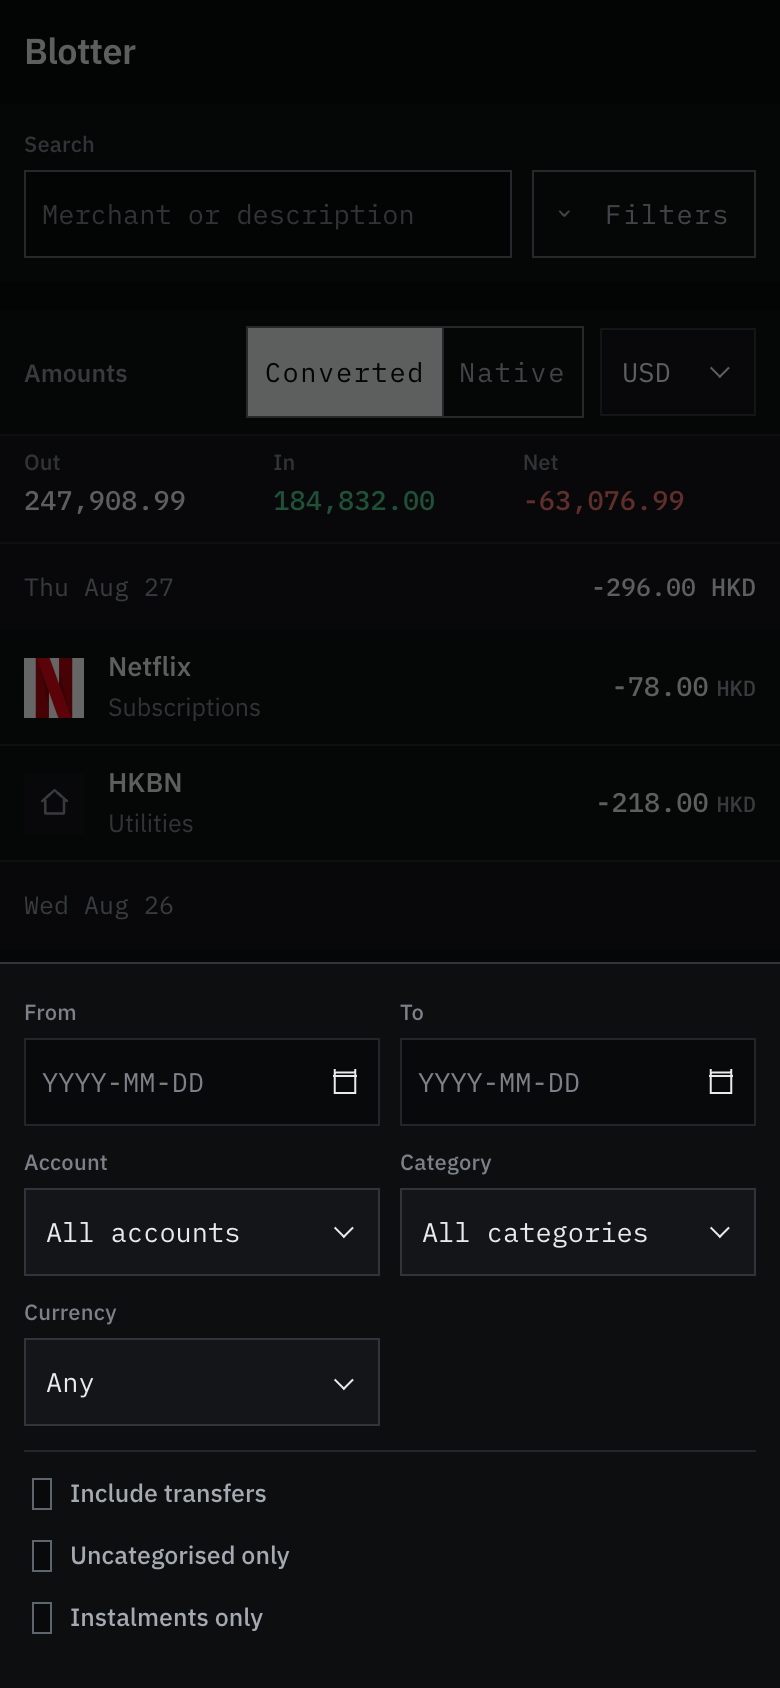
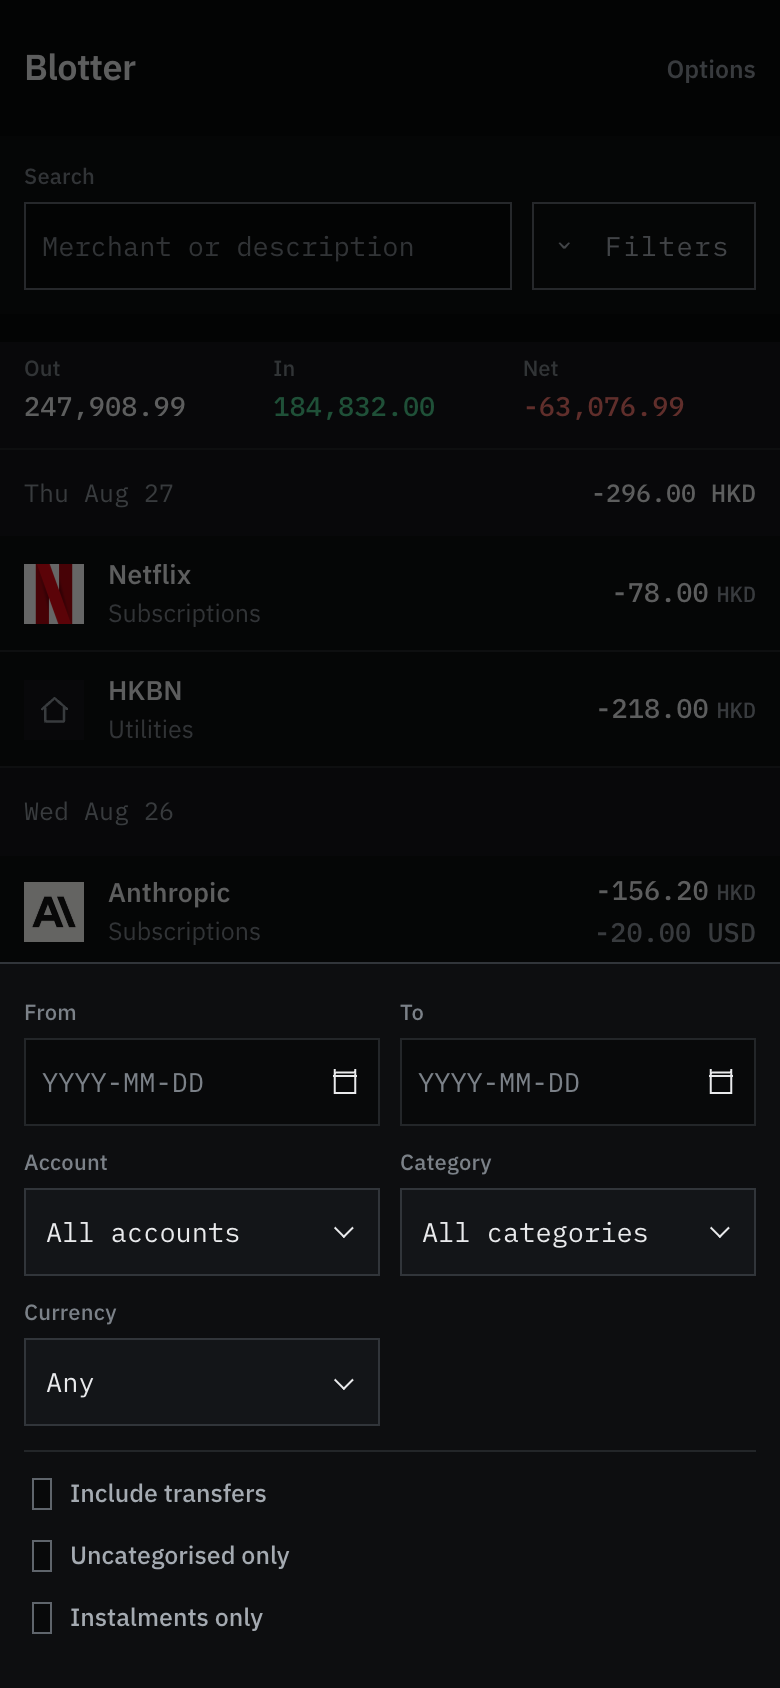
move compact amount controls into options sheet

diff --git a/web/src/styles.css b/web/src/styles.css
@@ -520,6 +520,40 @@ th.num, td.num {
   letter-spacing: 0.08em;
 }
 
+/* Compact presentation preferences use a sheet; the Blotter's data filters
+   remain a separate scoped task. These rules are global because the sheet also
+   contains the shared select component. */
+.amount-options-trigger, .amount-options, .amount-options-scrim { display: none; }
+@media (max-width: 880px) {
+  .amount-options-trigger { display: block; min-height: 44px; padding-inline: var(--s2); color: var(--fg-2); font: 550 var(--t-meta)/1 var(--sans); letter-spacing: 0; }
+  .amount-options-scrim {
+    display: block; position: fixed; z-index: var(--z-scrim); inset: 0;
+    width: 100%; height: 100%; min-height: 0; padding: 0; border: 0;
+    background: #000a; animation: options-scrim-in var(--motion-fast) var(--ease-out) both;
+  }
+  .amount-options {
+    display: block; position: fixed; z-index: var(--z-overlay); inset: auto 0 0;
+    padding: 0 var(--s3) calc(var(--s4) + env(safe-area-inset-bottom));
+    border-top: 1px solid var(--line-2); background: var(--panel);
+    animation: options-sheet-in var(--motion) var(--ease-out) both;
+  }
+  .amount-options:has(finto-select.sheet-open) { transform: none; }
+  .amount-options header { display: flex; align-items: center; justify-content: space-between; min-height: 64px; border-bottom: 1px solid var(--line); }
+  .amount-options header h2 { margin: 0; font-size: var(--t-lede); }
+  .amount-options header button { min-width: 44px; min-height: 44px; padding: 0; font-size: var(--t-figure); }
+  .amount-option-row { display: grid; grid-template-columns: 88px minmax(0, 1fr); align-items: center; gap: var(--s3); min-height: 68px; border-bottom: 1px solid var(--line); }
+  .amount-option-row:last-child { border-bottom: 0; }
+  .amount-option-row label { margin: 0; color: var(--fg-3); }
+  .amount-option-row .seg { display: flex; }
+  .amount-option-row .seg button { flex: 1; min-height: 44px; padding-inline: var(--s2); }
+  .amount-option-row finto-select { width: 100%; }
+  @keyframes options-sheet-in { from { transform: translateY(100%); } }
+  @keyframes options-scrim-in { from { opacity: 0; } }
+}
+@media (prefers-reduced-motion: reduce) {
+  .amount-options, .amount-options-scrim { animation: none; }
+}
+
 /* Two waiting states, and which one to use is not a preference:
    .skeleton  when the shape of what is coming is known (list rows, cards) — it
               holds the layout, so nothing jumps when the data lands.
@@ -588,7 +622,7 @@ th.num, td.num {
 router-outlet + * { view-transition-name: page-content; }
 /* view-transition-name creates a stacking context. Lift the routed page while
    it owns an overlay so its sheet can cover the sibling tab bar. */
-router-outlet + *:has(.select-root.open, .date-root.open, .filter-bar.sheet-open, .picker, .drawer.open) {
+router-outlet + *:has(.select-root.open, .date-root.open, .filter-bar.sheet-open, .amount-options, .picker, .drawer.open) {
   position: relative;
   z-index: var(--z-overlay);
 }

diff --git a/web/src/app/features/blotter/blotter.ts b/web/src/app/features/blotter/blotter.ts
@@ -77,6 +77,7 @@ export class BlotterPage implements OnDestroy {
   scopeTotals = signal<TotalRow[]>([]);
   normalised = signal<{ net: Money; spend: Money; income: Money; unconvertible_currencies: string[] } | null>(null);
   showNative = signal(false);
+  optionsOpen = signal(false);
   convertTo = signal('USD');
   currencies = signal<string[]>(['USD']);
   /* A phone shows ~8 rows, so 100 was 12 screens of scroll bought up front and
@@ -101,6 +102,12 @@ export class BlotterPage implements OnDestroy {
     if (value) setTimeout(() => value.nativeElement.focus());
   }
   private lastTrigger: HTMLElement | null = null;
+  private optionsTrigger: HTMLElement | null = null;
+  private amountOptions?: ElementRef<HTMLElement>;
+  @ViewChild('amountOptions') set amountOptionsElement(value: ElementRef<HTMLElement> | undefined) {
+    this.amountOptions = value;
+    if (value) setTimeout(() => value.nativeElement.focus());
+  }
   private inspectorHistoryActive = false;
   private afterClose: (() => void) | null = null;
   private scrollLockOffset = 0;
@@ -213,6 +220,33 @@ export class BlotterPage implements OnDestroy {
   setConvertTo(currency: string): void {
     this.convertTo.set(currency);
     this.load();
+  }
+
+  openOptions(event: Event): void {
+    this.optionsTrigger = event.currentTarget as HTMLElement;
+    this.optionsOpen.set(true);
+    this.lockScroll();
+  }
+
+  closeOptions(): void {
+    this.optionsOpen.set(false);
+    this.unlockScroll();
+    queueMicrotask(() => this.optionsTrigger?.focus());
+  }
+
+  trapOptionsFocus(event: KeyboardEvent): void {
+    if (event.key !== 'Tab' || !this.amountOptions) return;
+    const focusable = [...this.amountOptions.nativeElement.querySelectorAll<HTMLElement>(
+      'button:not([disabled]), input:not([disabled]), [tabindex]:not([tabindex="-1"])',
+    )].filter((node) => node !== this.amountOptions?.nativeElement);
+    if (!focusable.length) return;
+    const first = focusable[0];
+    const last = focusable[focusable.length - 1];
+    if (document.activeElement === this.amountOptions.nativeElement || (event.shiftKey && document.activeElement === first)) {
+      event.preventDefault(); (event.shiftKey ? last : first).focus();
+    } else if (!event.shiftKey && document.activeElement === last) {
+      event.preventDefault(); first.focus();
+    }
   }
 
   sortBy(column: string): void {
@@ -404,6 +438,7 @@ export class BlotterPage implements OnDestroy {
   @HostListener('document:keydown.escape')
   closeOnEscape(): void {
     if (this.selected()) this.close();
+    else if (this.optionsOpen() && !this.host.nativeElement.querySelector('.amount-options finto-select.sheet-open')) this.closeOptions();
   }
 
   trapFocus(event: KeyboardEvent): void {

diff --git a/web/src/app/features/blotter/blotter.html b/web/src/app/features/blotter/blotter.html
@@ -1,5 +1,6 @@
 <div class="page-head">
   <h1>Blotter</h1>
+  <button type="button" class="bare amount-options-trigger" (click)="openOptions($event)">Options</button>
 </div>
 
 <app-filter-bar #filterBar (changed)="load()" />
@@ -174,6 +175,32 @@
     }
   }
 </div>
+
+@if (optionsOpen()) {
+  <button type="button" class="amount-options-scrim" (click)="closeOptions()"
+          aria-label="Close display options"></button>
+  <section #amountOptions class="amount-options" role="dialog" aria-modal="true"
+           aria-labelledby="amount-options-title" tabindex="-1" (keydown)="trapOptionsFocus($event)">
+    <header>
+      <h2 id="amount-options-title">Display options</h2>
+      <button type="button" class="bare" (click)="closeOptions()" aria-label="Close">×</button>
+    </header>
+    <div class="amount-option-row">
+      <label>Amounts</label>
+      <div class="seg" aria-label="Amount display">
+        <button [class.on]="!showNative()" (click)="setAggregation('normalised')">Converted</button>
+        <button [class.on]="showNative()" (click)="setAggregation('native')">Native</button>
+      </div>
+    </div>
+    @if (!showNative()) {
+      <div class="amount-option-row">
+        <label>Currency</label>
+        <finto-select ariaLabel="Display currency" [options]="currencies()"
+                      [ngModel]="convertTo()" (ngModelChange)="setConvertTo($event)" />
+      </div>
+    }
+  </section>
+}
 
 @if (picking(); as txn) {
   <button type="button" class="picker-scrim" (click)="picking.set(null)"

diff --git a/web/src/app/features/blotter/blotter.css b/web/src/app/features/blotter/blotter.css
@@ -282,10 +282,7 @@ button.fact:hover { color: var(--info); border-bottom-color: var(--info); }
 .review-flag { display: inline-grid; place-items: center; width: 15px; height: 15px; margin-left: 5px; border: 1px solid var(--warn); color: var(--warn); font: 650 var(--t-micro)/1 var(--sans); vertical-align: 2px; }
 
 @media (max-width: 880px) {
-  .aggregation-controls { align-items: center; }
-  .aggregation-actions { min-width: 0; }
-  .aggregation-actions .seg { flex: 1; }
-  .aggregation-actions .seg button { flex: 1; padding-inline: 8px; }
+  .aggregation-controls { display: none; }
   .scope { display: block; padding: 0 12px 10px; }
   .scope-item { display: grid; grid-template-columns: 42px repeat(3, minmax(0, 1fr)); gap: 8px; align-items: end; padding: 8px 0 0; }
   .normalised-scope .scope-item { grid-template-columns: repeat(3, minmax(0, 1fr)); }

diff --git a/docs/design/MOBILE_UX.md b/docs/design/MOBILE_UX.md
@@ -36,8 +36,9 @@ while using hierarchy, surface, and progressive disclosure to reduce chrome.
   where useful, and keyboard dismissal.
 - A currency row contains two complementary facts: ISO code and localized name.
   The selected checkmark communicates state; the code is not repeated as
-  secondary copy. Reporting-currency choice is an **Amounts** option beside
-  Converted/Native, separate from transaction filters.
+  secondary copy. On mobile, Converted/Native and reporting currency live in a
+  compact **Options** sheet; on desktop they remain inline beside the totals.
+  Both stay separate from transaction filters.
 - The app has one vertical page scroller. Subviews never inherit the previous
   route's offset. Subtle scroll-edge fades communicate that content continues
   and disappear exactly at the top or bottom. Horizontal chart exploration is
@@ -92,9 +93,9 @@ These choices follow Apple's official guidance on [layout](https://developer.app
 |---|---|
 | ![Summary](mobile/summary-after.png) | ![Blotter](mobile/blotter-after.png) |
 
-| Currency selector | Filters |
+| Currency selector | Display options |
 |---|---|
-| ![Reporting currency sheet](mobile/summary-currency-sheet-after.png) | ![Filters](mobile/blotter-filters-after.png) |
+| ![Reporting currency sheet](mobile/summary-currency-sheet-after.png) | ![Display options](mobile/blotter-options-after.png) |
 
 | Transaction detail | Statement data and provenance |
 |---|---|

diff --git a/docs/design/HANDOFF.md b/docs/design/HANDOFF.md
@@ -173,10 +173,12 @@ of occupying a privileged central tab.
 ### 3.13 Complete — comprehensive spacing, hierarchy, and account audit
 The critical follow-up audited mobile and desktop font tokens, padding, margins,
 label case, control alignment, row symmetry, brand marks, chart spacing, light
-and dark surfaces, sticky/transient blur, and scroll extremes. Amount conversion
-is now a compact **Amounts** control separate from Filters. Currency choices show
-one ISO code and one localized name. Settings rows no longer stretch to the
-height of an unrelated neighbor.
+and dark surfaces, sticky/transient blur, and scroll extremes. On compact
+screens, Converted/Native and reporting currency are tucked into the Blotter's
+**Options** sheet; desktop keeps them inline beside the totals. They stay
+separate from Filters because they change presentation, not the transaction
+set. Currency choices show one ISO code and one localized name. Settings rows
+no longer stretch to the height of an unrelated neighbor.
 
 Accounts now has three explicit levels: overview, multi-subaccount aggregate,
 and account/subaccount detail. Group and standalone overview rows share the same
